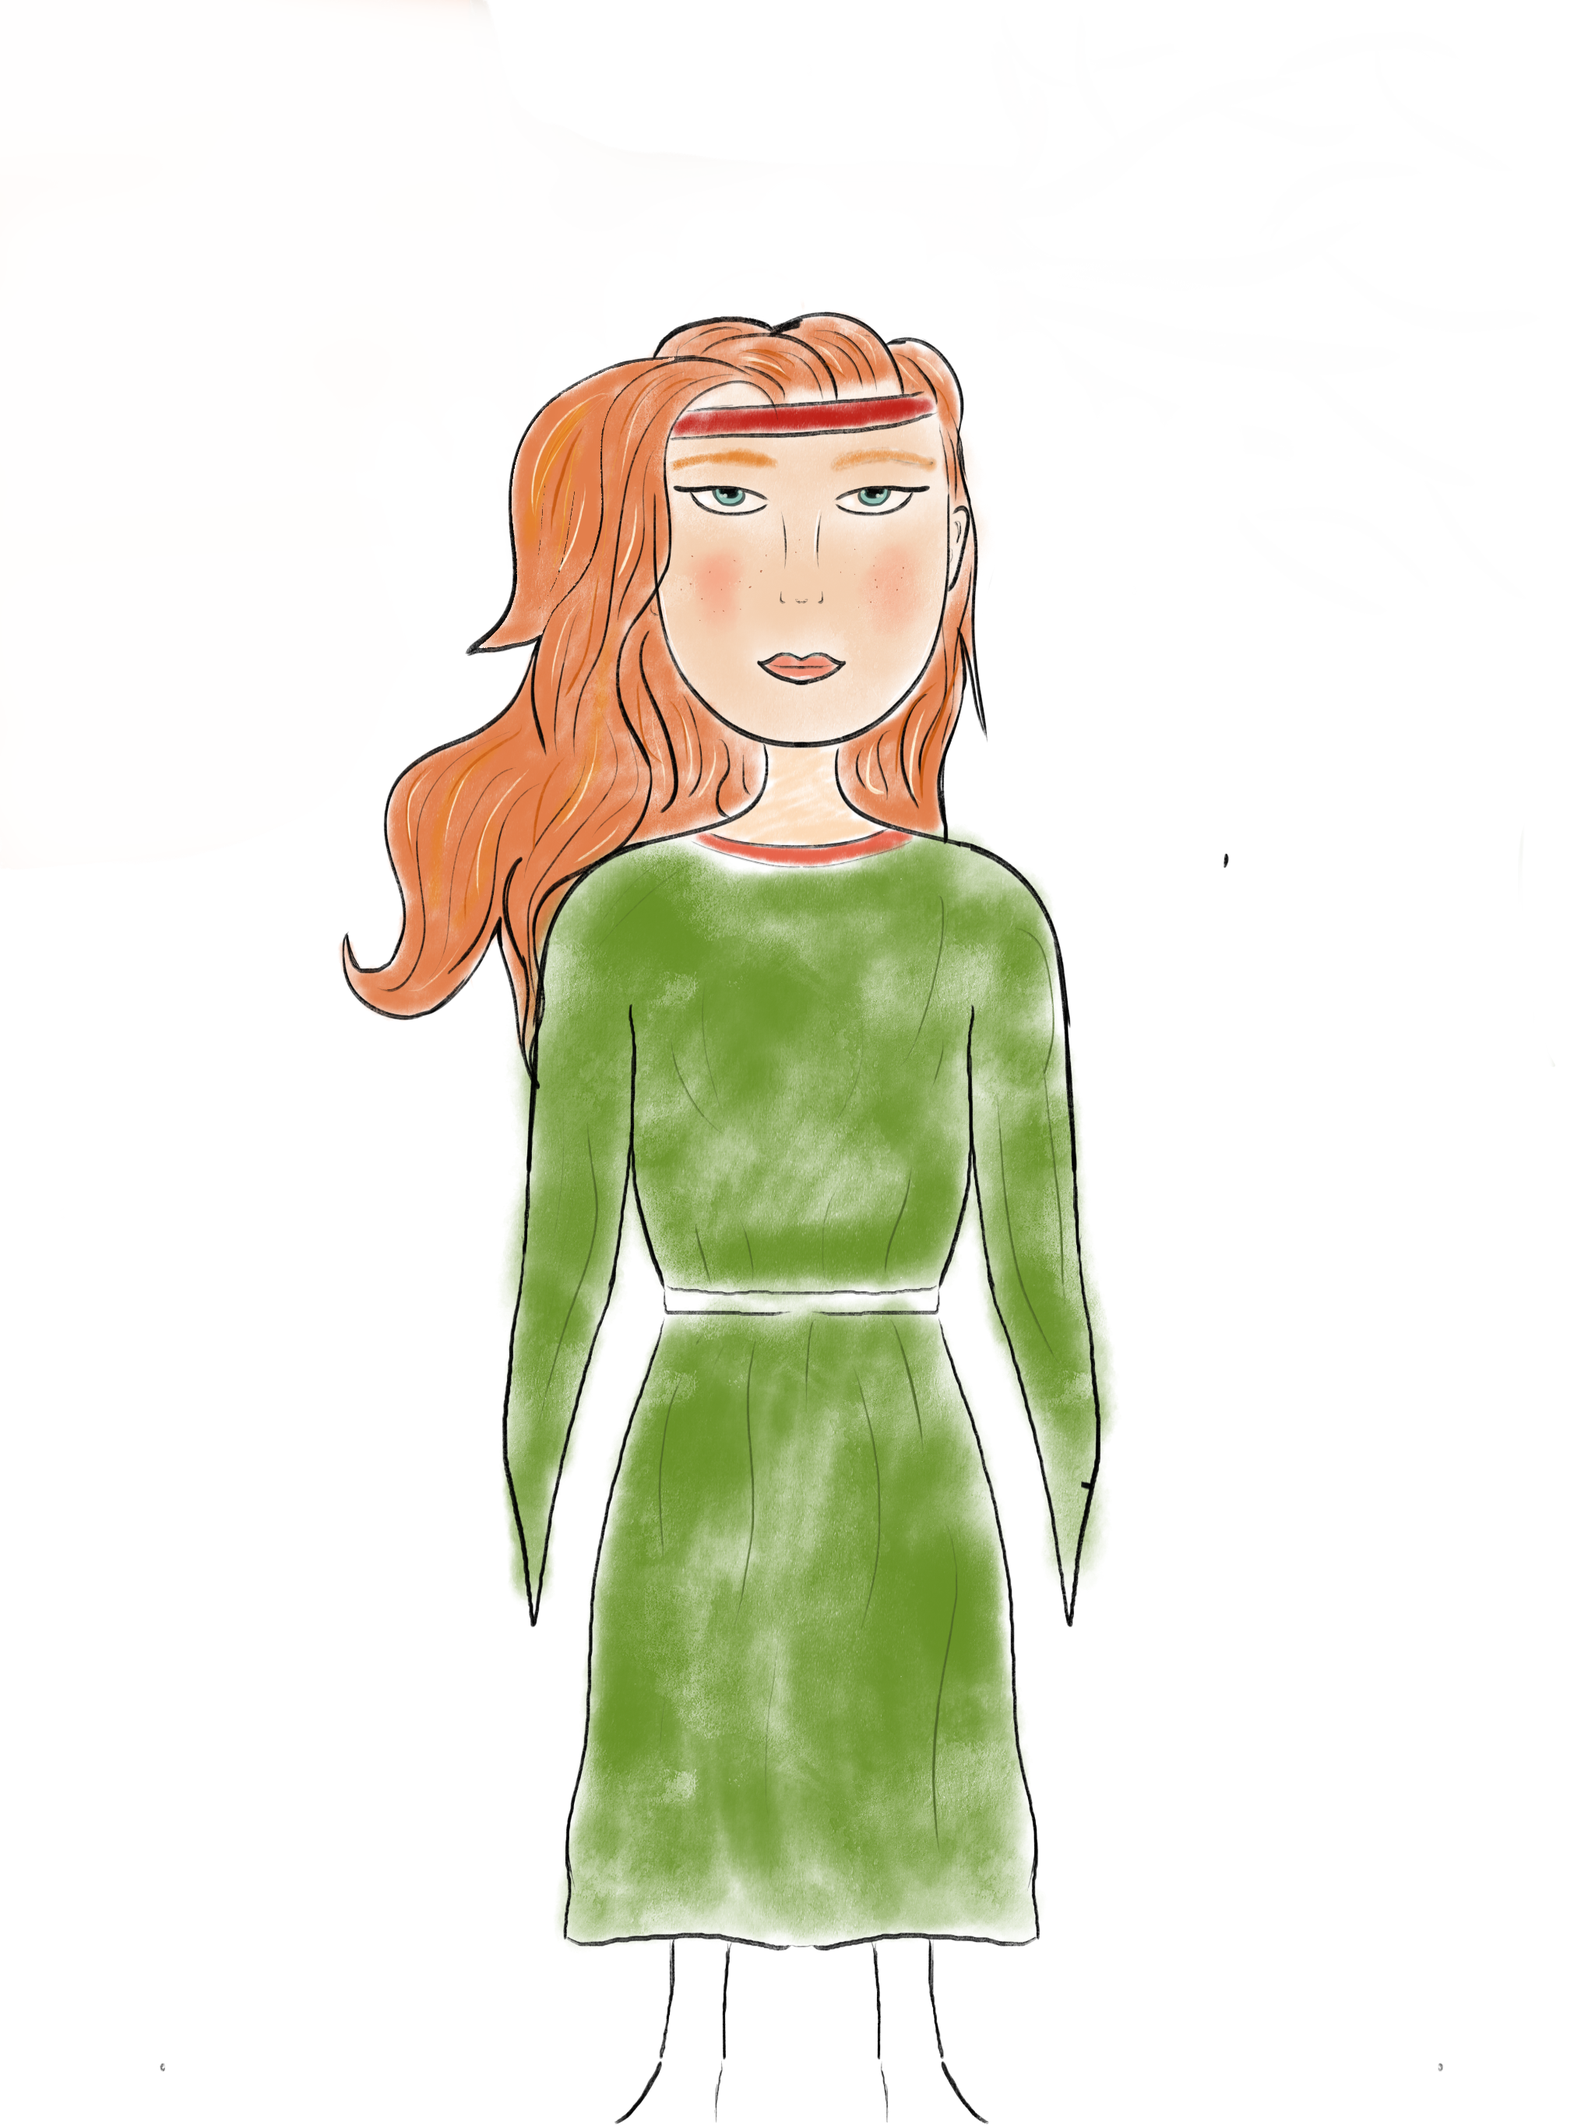
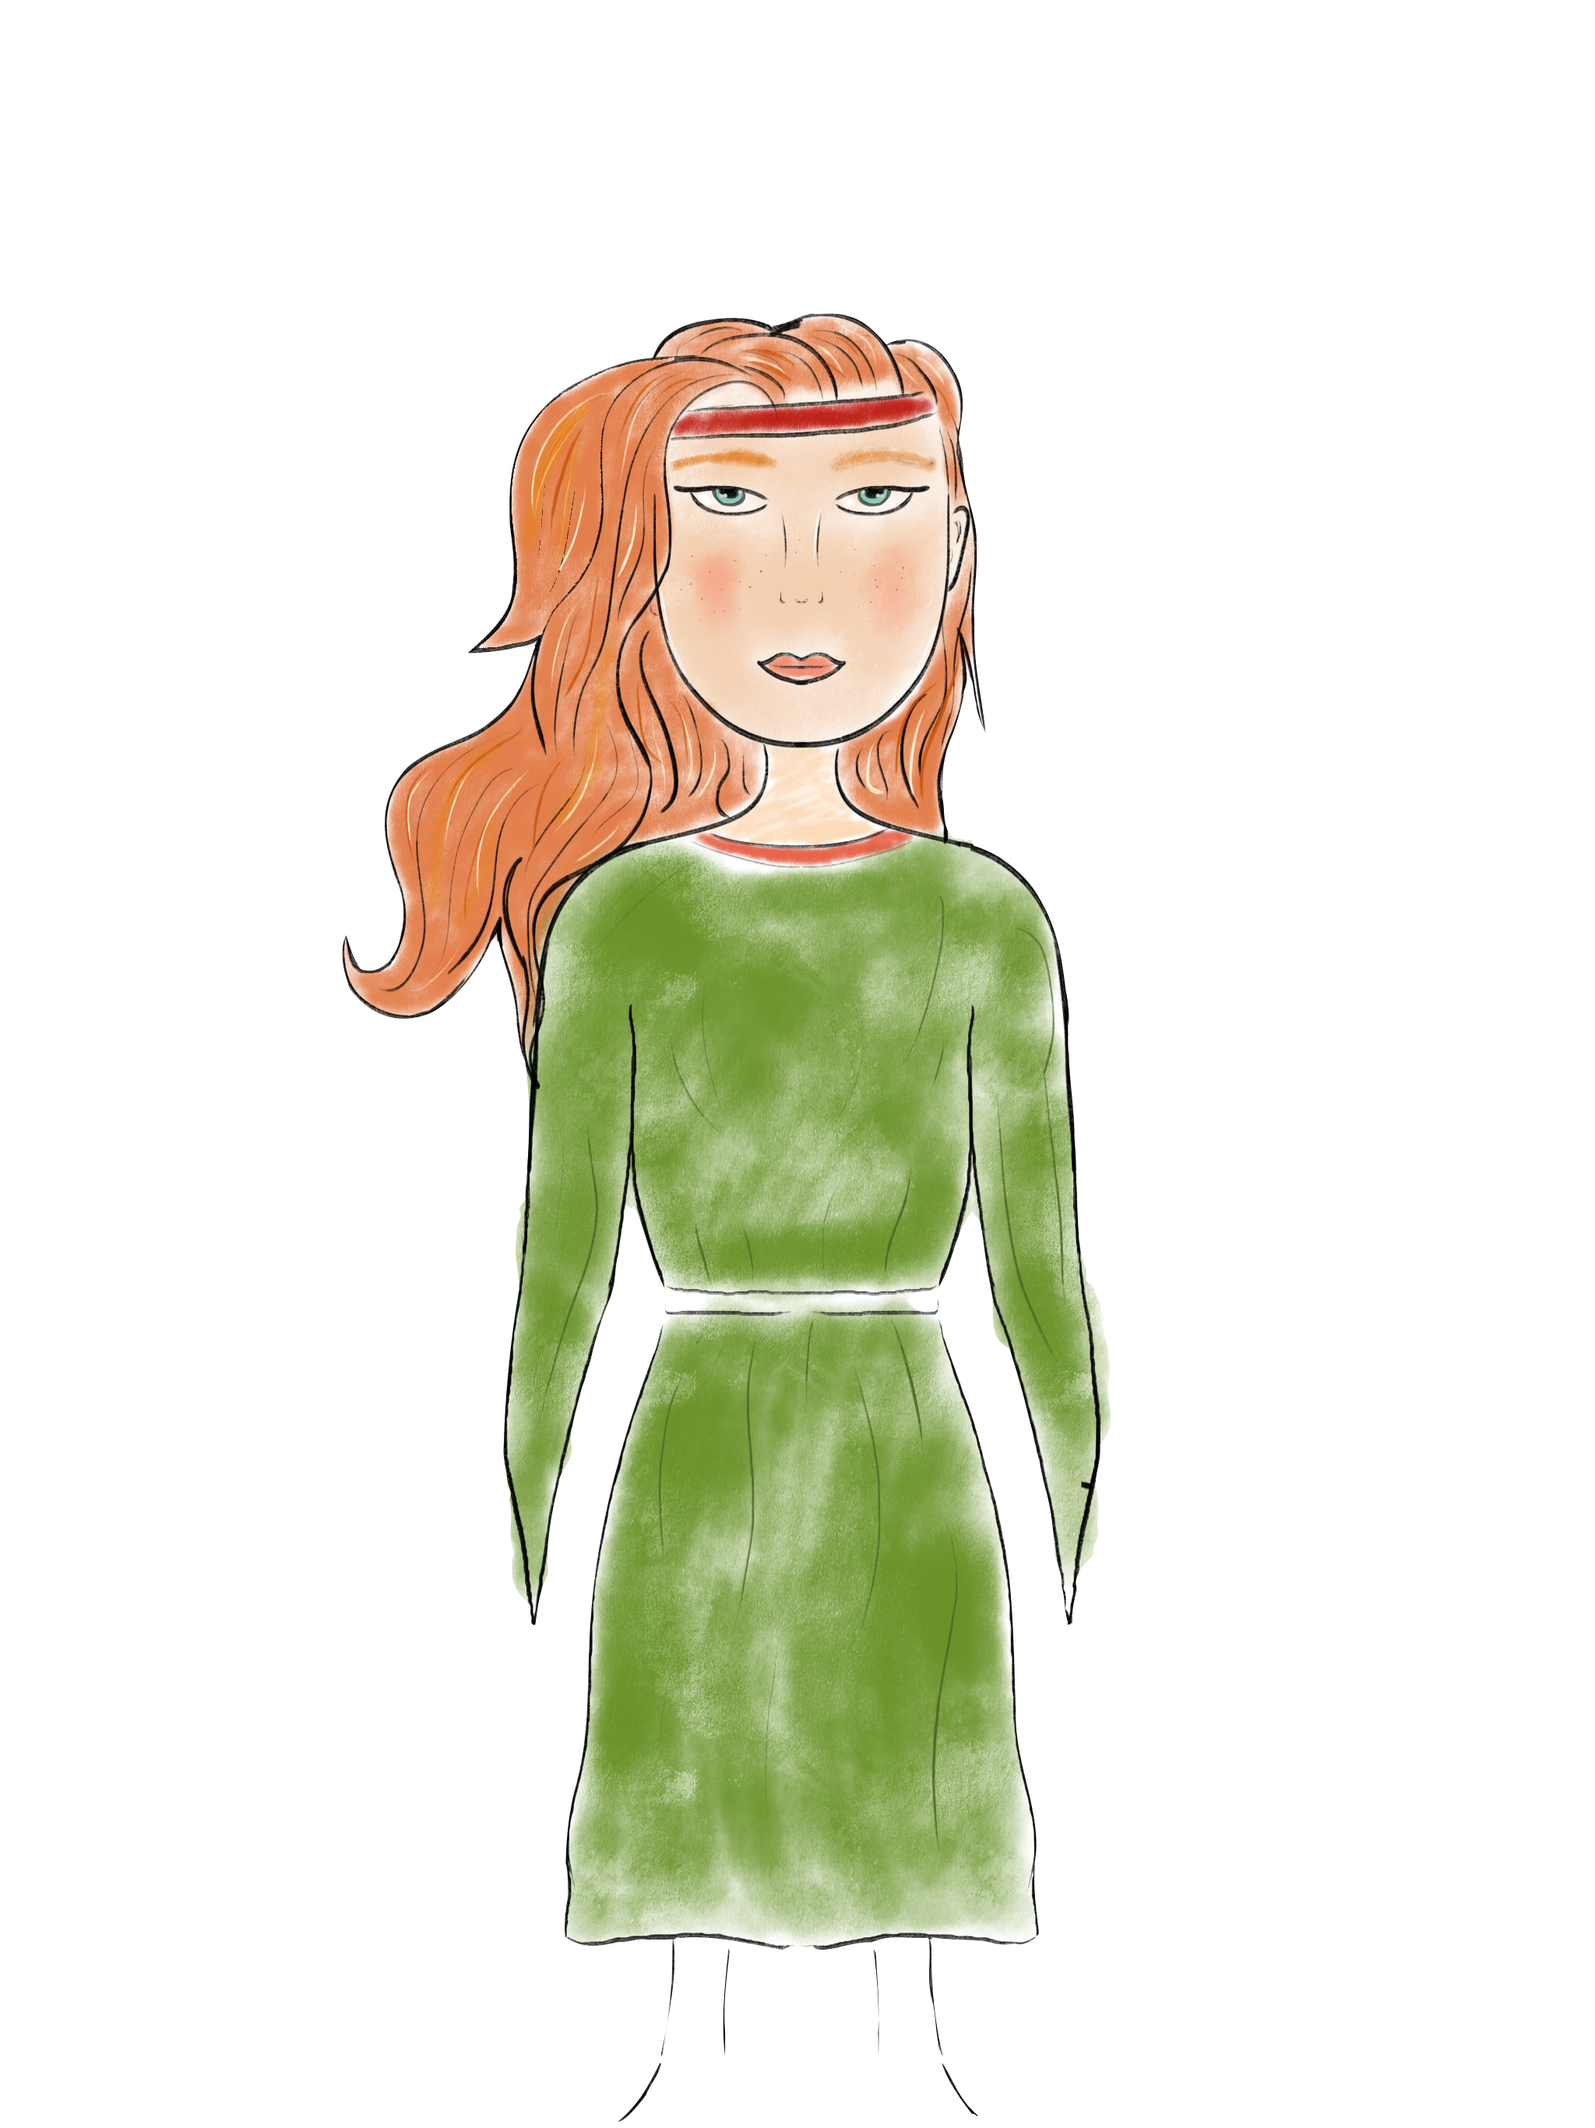
text editor code mirror, query, show results

diff --git a/SQLAdventures/templates/quests/active_quest.html b/SQLAdventures/templates/quests/active_quest.html
@@ -1,5 +1,5 @@
 {% extends 'base.html' %}
-{% block title %}- Login {% endblock %}
+{% block title %}- aktive Quest {% endblock %}
 
 {% block head %}
     <script src="https://cdnjs.cloudflare.com/ajax/libs/codemirror/5.62.0/codemirror.min.js"
@@ -14,6 +14,8 @@
     <script src="https://cdnjs.cloudflare.com/ajax/libs/codemirror/5.62.0/addon/display/placeholder.min.js"
             integrity="sha512-RO2holrH2sTvI9eanK0s+luhPF+J7sdzmk0lMosgrSaUSEjRUfyFiSaERSXHPcIJfQNqeVermdLvQRqUe4sSIQ=="
             crossorigin="anonymous" referrerpolicy="no-referrer"></script>
+
+    <script src="{{ url_for('static', filename='scripts/active_quest.js') }}"></script>
 
     <link rel="stylesheet" href="{{ url_for('static', filename='styles/active_quest.css') }}">
 {% endblock %}
@@ -49,50 +51,50 @@
             </div>
         </div>#}
         <div class="row">
-            <div class="col-3 align-self-end">
-                <div id="bubble-left" class="speech-bubble p-2 mb-3"> lange text jdf kdsf dsfj dsfjklas klds jasd
-                    fkljadsfjdsaklf dsajfkljds kdsjafjds klfjdsaf jds
-                </div>
+            <div class="col-3">
+
             </div>
             <div id="Task" class="col-6 jumbotron p-4 mt-4">
                 <h4> Aufgabe: {{ quest_data['Task'] }} </h4>
-                <h5 id="Hint"> Hinweis: {{ quest_data['Hint'] }} </h5>
+                <h6 id="Hint"> Hinweis: {{ quest_data['Hint'] }} </h6>
             </div>
-            <div class="col-3 align-self-end">
-                <div id="bubble-right" class="speech-bubble p-2 mb-3"> Wie bitte?</div>
+            <div class="col-3">
+
             </div>
         </div>
         <div class="row">
-            <div class="col-3">
-                <img class="img-fluid" src="{{ url_for('static', filename='/images/prinzessin_test.png') }}" alt="">
+            <div class="col-3 align-self-end text-center">
+                <div id="bubble-left" class="speech-bubble p-2 mb-3"> lange text jdf kdsf dsfj dsfjklas klds jasd
+                    fkljadsfjdsaklf dsajfkljds kdsjafjds klfjdsaf jds lange text jdf kdsf dsfj dsfjklas klds jasd
+                    fkljadsfjdsaklf dsajfkljds kdsjafjds klfjdsaf jds
+                </div>
+                <img class="img-fluid" src="{{ url_for('static', filename='/images/Bauer.png') }}" alt="">
             </div>
-            <div class="col-6">
+            <div class="col-6 align-self-end">
                 <div class="jumbotron">
-
+                    <span id="response"></span>
                 </div>
             </div>
-            <div class="col-3">
-                <img class="img-fluid" src="{{ url_for('static', filename='/images/prinzessin_test.png') }}" alt="">
+            <div class="col-3 align-self-end text-center">
+                <div id="bubble-right" class="speech-bubble p-2 mb-3"> Wie bitte?</div>
+                <img class="img-fluid" src="{{ url_for('static', filename='/images/Bauer.png') }}" alt="">
             </div>
         </div>
         <div class="row">
             <div class="col-3"></div>
             <div class="col-6">
-                <form>
+                <form class="mb-3">
                     <label for="code"></label><textarea id="code" name="code"
                                                         placeholder="SQL Code hier eintippen..."></textarea>
                 </form>
-
-                <script type="text/javascript">
-                    $(document).ready(function () {
-                        let editor = CodeMirror.fromTextArea(document.getElementById("code"), {
-                            lineNumbers: true,
-                            mode: "text/x-sql"
-                        });
-                    })
-                </script>
             </div>
-            <div class="col-3"></div>
+            <div class="col-3 align-self-end mb-3">
+                <button id="SQLSubmitButton" name="SQLSubmitButton" type="submit"
+                        class="btn"
+                        style="font-size: 30px; font-weight: bold; background-color: #343a40; color: white">
+                    SQL abschicken!
+                </button>
+            </div>
         </div>
     </div>
 {% endblock %}

diff --git a/SQLAdventures/static/scripts/active_quest.js b/SQLAdventures/static/scripts/active_quest.js
@@ -1,0 +1,73 @@
+$(document).ready(function () {
+    let editor = CodeMirror.fromTextArea(document.getElementById("code"), {
+        lineNumbers: true,
+        mode: "text/x-sql",
+        matchBrackets: true
+    });
+
+
+    $("#SQLSubmitButton").click(function () {
+
+        if (editor.getValue()) {
+
+            let keywords_raw = document.getElementsByClassName('cm-keyword')
+            let keywords = []
+            for (let i = 0; i < keywords_raw.length; i++) {
+                keywords.push(keywords_raw[i].textContent)
+            }
+
+            // make request with user query
+            $.ajax({
+                type: 'POST',
+                url: '/quests/query',
+                data: JSON.stringify({query: editor.getValue(), keywords: keywords}),
+                contentType: "application/json",
+                dataType: 'json',
+                success: function (resultData) {
+
+                    // check if query returns error, if not show the result table
+                    if ('Error' in resultData) {
+                        // display error
+                        $("#response").text(resultData['Error'])
+                    } else {
+
+                        /* --- create the html table from sql data --- */
+                        let tableHead = "";
+                        let tableBody = ""
+
+
+                        for (let key in resultData[0]) {
+                            tableHead += "<th> " + key + " </th>"
+                        }
+
+                        /*Object.keys(resultData[0]).forEach(function (key) {
+                            tableHead += "<th> " + key + " </th>"
+                        })*/
+
+                        for (let i = 0; i < resultData.length; i++) {
+                            tableBody.concat("<tr> ")
+                            let row = resultData[i]
+                            for (let key in row) {
+                                if (row.hasOwnProperty(key))
+                                    tableBody += "<td>" + row[key] + "</td>"
+                            }
+                            tableBody += " </tr>"
+                        }
+                        tableHead = "<thead> <tr> " + tableHead + " </tr> </thead>"
+                        tableBody = "<tbody> " + tableBody + " </tbody>"
+
+                        let table = "<table class='table overflow-auto'>" + tableHead + tableBody + "</table>"
+
+                        // update the screen
+                        $("#response").html(table)
+                    }
+
+
+                },
+                error: function (error) {
+                    console.log(error)
+                },
+            })
+        }
+    })
+})

diff --git a/SQLAdventures/templates/base.html b/SQLAdventures/templates/base.html
@@ -9,11 +9,9 @@
     <link rel="stylesheet" href="https://stackpath.bootstrapcdn.com/bootstrap/4.3.1/css/bootstrap.min.css"
           integrity="sha384-ggOyR0iXCbMQv3Xipma34MD+dH/1fQ784/j6cY/iJTQUOhcWr7x9JvoRxT2MZw1T" crossorigin="anonymous">
 
-    <!-- Optional JavaScript -->
+    <!-- JavaScript -->
     <!-- jQuery first, then Popper.js, then Bootstrap JS -->
-    <script src="https://code.jquery.com/jquery-3.3.1.slim.min.js"
-            integrity="sha384-q8i/X+965DzO0rT7abK41JStQIAqVgRVzpbzo5smXKp4YfRvH+8abtTE1Pi6jizo"
-            crossorigin="anonymous"></script>
+    <script src="https://code.jquery.com/jquery-3.6.0.min.js"></script>
     <script src="https://cdnjs.cloudflare.com/ajax/libs/popper.js/1.14.7/umd/popper.min.js"
             integrity="sha384-UO2eT0CpHqdSJQ6hJty5KVphtPhzWj9WO1clHTMGa3JDZwrnQq4sF86dIHNDz0W1"
             crossorigin="anonymous"></script>

diff --git a/SQLAdventures/static/styles/active_quest.css b/SQLAdventures/static/styles/active_quest.css
@@ -25,3 +25,7 @@
 }
 
 .CodeMirror pre.CodeMirror-placeholder { color: #999; }
+
+img {
+	/*max-width: 300px !important;*/
+}

diff --git a/SQLAdventures/quests.py b/SQLAdventures/quests.py
@@ -1,7 +1,7 @@
 import json
 import os
 
-from flask import Blueprint, render_template, request, session, url_for, current_app, redirect, g
+from flask import Blueprint, render_template, request, session, url_for, current_app, redirect, g, jsonify
 
 from SQLAdventures import auth, db
 from SQLAdventures.db import get_user_db, get_player_db, init_player_db
@@ -9,13 +9,24 @@ from SQLAdventures.db import get_user_db, get_player_db, init_player_db
 bp = Blueprint('quests', __name__, url_prefix='/quests')
 
 
-@bp.route('/questbook', methods=('GET', 'POST'))
+@bp.route('/questbook', methods=['GET', 'POST'])
 @auth.login_required
 def questbook():
     if request.method == 'POST':
         # user wants to start a quest
-        # store the selected quest nr
-        session['current_quest'] = request.form['QuestSubmitButton']
+
+        # find the quest file
+        quest_data = os.path.join(current_app.static_folder, 'data', 'quests.json')
+        quest_data = json.load(open(quest_data))
+
+        # preprocess file name
+        current_quest = str(request.form['QuestSubmitButton'])
+        quest_name = current_quest.rstrip('0123456789')
+        quest_number = int(current_quest[len(quest_name):])
+
+        # find the relevant quest
+        session['quest_data'] = quest_data[quest_name][quest_number]
+
         return redirect(url_for('quests.quest'))
 
     quest_file = os.path.join(current_app.static_folder, 'data', 'quests.json')
@@ -33,22 +44,32 @@ def questbook():
 @bp.route('/quest')
 @auth.login_required
 def quest():
-    if session['current_quest'] is None:
-        # show error or smth
+    if session.get('quest_data') is None:
+        # TODO show error or smth
         pass
 
-    quest_data = os.path.join(current_app.static_folder, 'data', 'quests.json')
-    quest_data = json.load(open(quest_data))
-
-    # current_quest = [ quest_category, quest_number ]
-    data = str(session['current_quest'])
-    quest_name = data.rstrip('0123456789')
-    quest_number = int(data[len(quest_name):])
-
-    # find the relevant quest
-    quest_data = quest_data[quest_name][quest_number]
-
     # get the expected result
-    result = db.get_player_db().execute(quest_data['Query']).fetchall()
+    #result = db.get_player_db(g.user['username']).execute(session.get('quest_data')['Query']).fetchall()
 
-    return render_template('quests/active_quest.html', quest_data=quest_data)
+    return render_template('quests/active_quest.html', quest_data=session.get('quest_data'))
+
+
+@bp.route('/query', methods=['POST'])
+@auth.login_required
+def validate_query():
+    # request = query and highlighted-sql-keywords
+    user_input = request.get_json()
+    keywords = user_input['keywords']
+    query = user_input['query']
+
+    # TODO check query if keywords are unlocked
+
+    # import re
+    # blacklist = ['delete', 'drop', 'update']
+    # for word in blacklist:
+    #     if re.search(word, query, re.IGNORECASE):
+    #         return jsonify({'error': ''})
+
+    result = db.validate_user_query(query)
+
+    return jsonify(result)

diff --git a/SQLAdventures/db.py b/SQLAdventures/db.py
@@ -17,10 +17,10 @@ def get_user_db():
 
 
 # open a connection to the db of the current player
-def get_player_db():
-    if 'player_db' not in g and g.user is not None:
+def get_player_db(username):
+    if 'player_db' not in g:
         g.player_db = sqlite3.connect(
-            current_app.config['PLAYER_DATABASE'] + g.user['username'] + '.sqlite',
+            current_app.config['PLAYER_DATABASE'] + username + '.sqlite',
             detect_types=sqlite3.PARSE_DECLTYPES
         )
         g.player_db.row_factory = sqlite3.Row
@@ -49,11 +49,11 @@ def init_user_db():
 
     with current_app.open_resource('schema.sql') as f:
         db.executescript(f.read().decode('utf8'))
-        
+
 
 # init the db of the current player
-def init_player_db():
-    db = get_player_db()
+def init_player_db(username):
+    db = get_player_db(username)
 
     with current_app.open_resource('player_schema.sql') as f:
         db.executescript(f.read().decode('utf8'))
@@ -74,3 +74,14 @@ def init_app(app):
     app.teardown_appcontext(close_player_db)
     # register the command to init the user db
     app.cli.add_command(init_db_command)
+
+
+def validate_user_query(query: str):
+    # TODO check
+    try:
+        result = [dict(row) for row in get_player_db(g.user['username']).execute(query).fetchall()]
+        if not result:
+            return {'Error': 'result table is empty!'}
+        return result
+    except sqlite3.Error as err:
+        return {'Error': str(err.args)}

diff --git a/SQLAdventures/auth.py b/SQLAdventures/auth.py
@@ -9,7 +9,7 @@ from SQLAdventures.db import get_user_db, get_player_db, init_player_db
 bp = Blueprint('auth', __name__, url_prefix='/auth')
 
 
-@bp.route('/register', methods=('GET', 'POST'))
+@bp.route('/register', methods=['GET', 'POST'])
 def register():
     error = None
     if request.method == 'POST':
@@ -41,11 +41,11 @@ def register():
                 'SELECT * FROM user WHERE username = ?', (username,)
             ).fetchone()
             session.clear()
-            session['username'] = user['username']
+
             session['user_id'] = user['id']
 
             # create new database file for new player
-            init_player_db()
+            init_player_db(user['username'])
 
             return redirect(url_for('index'))
 
@@ -54,7 +54,7 @@ def register():
     return render_template('auth/register.html', error=error)
 
 
-@bp.route('/login', methods=('GET', 'POST'))
+@bp.route('/login', methods=['GET', 'POST'])
 def login():
     error = None
     if request.method == 'POST':

diff --git a/SQLAdventures/__init__.py b/SQLAdventures/__init__.py
@@ -10,7 +10,8 @@ def create_app(test_config=None):
     app.config.from_mapping(
         SECRET_KEY='dev',
         USER_DATABASE=os.path.join(app.instance_path, 'user_db.sqlite'),
-        PLAYER_DATABASE=player_db_path
+        PLAYER_DATABASE=player_db_path,
+        JSON_SORT_KEYS=False
     )
 
     if test_config is None:
